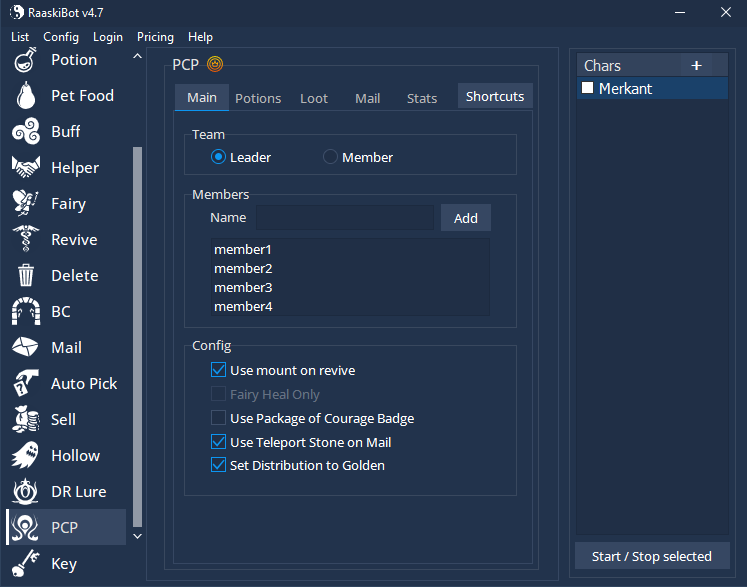
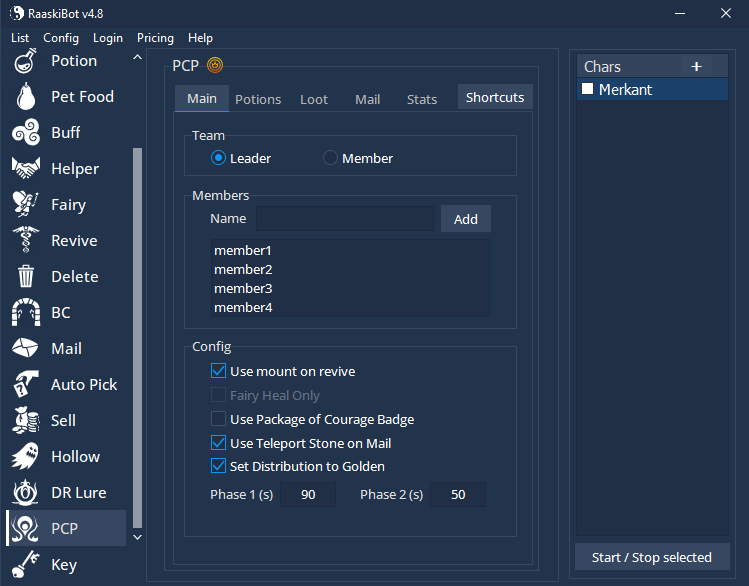
Add 4.8 patch notes and a Troubleshooting page
From 4.8 the changelog entries read "TYPE Feature" (FIX PCP, MELHORIA
Geral) instead of a bare feature name, so the label is now split into a
type chip and a feature chip. The feature half keeps linking to its
tutorial, which a combined "FIX PCP" key would have broken. Older
single-word labels are unaffected.

New Troubleshooting page (Ajuda in Portuguese) covering the two Windows
text settings that fix failed logins and image recognition: smooth
screen fonts and ClearType. Its steps are numbered, which is honest
here - unlike the bot's tabs, this really is an ordered procedure. The
captures are from Windows in Portuguese, so each step also names the
English label to look for.

PCP gains the Phase 1 (s) and Phase 2 (s) fields added in 4.8.

diff --git a/index.html b/index.html
@@ -20,6 +20,7 @@
 		<button type="button" class="tab" data-view="home" aria-selected="true" data-en="Home" data-pt="Início"></button>
 		<button type="button" class="tab" data-view="tutoriais" aria-selected="false" data-en="Tutorials" data-pt="Tutoriais"></button>
 		<button type="button" class="tab" data-view="patch-notes" aria-selected="false" data-en="Patch Notes" data-pt="Patch Notes"></button>
+		<button type="button" class="tab" data-view="ajuda" aria-selected="false" data-en="Troubleshooting" data-pt="Ajuda"></button>
 		<a class="tab tab--out" href="https://www.youtube.com/playlist?list=PLMZOKo_yDo0-GMv4DyENpjaANbiu9YAzU" target="_blank" rel="noopener"
 		   data-en="YouTube" data-pt="YouTube"></a>
 		<button type="button" class="tab" data-view="contato" aria-selected="false" data-en="Contact" data-pt="Contato"></button>
@@ -657,7 +658,7 @@
 				<section class="section" id="pcp">
 					<h2><span data-en="PCP" data-pt="PCP"></span><a class="anchor" href="#pcp" aria-label="Link">#</a></h2>
 					<button type="button" class="shot" data-zoom="zoom" data-en-zoom="Click to zoom" data-pt-zoom="Clique para ampliar">
-						<img src="images/pcp_main.png" width="747" height="587" loading="lazy" decoding="async" alt="PCP">
+						<img src="images/pcp_main.png" width="749" height="586" loading="lazy" decoding="async" alt="PCP">
 					</button>
 					<ul class="steps">
 						<li class="step step--named">
@@ -676,6 +677,8 @@
 								<li><dfn data-en="Use Package of Courage Badge" data-pt="Use Package of Courage Badge"></dfn><span data-en="Opens the badge packages picked up in the run." data-pt="Abre os pacotes de badge que pegar na run."></span></li>
 								<li><dfn data-en="Use Teleport Stone on Mail" data-pt="Use Teleport Stone on Mail"></dfn><span data-en="Uses the teleport stone when going to mail items." data-pt="Usa a teleport stone na hora de ir mandar os itens."></span></li>
 								<li><dfn data-en="Set Distribution to Golden" data-pt="Set Distribution to Golden"></dfn><span data-en="Sets the team's loot distribution to golden." data-pt="Configura a distribuição de loot do time para golden."></span></li>
+								<li><dfn data-en="Phase 1 (s)" data-pt="Phase 1 (s)"></dfn><span data-en="How long the team stays on the first phase, in seconds." data-pt="Quanto tempo o team fica na primeira fase, em segundos."></span></li>
+								<li><dfn data-en="Phase 2 (s)" data-pt="Phase 2 (s)"></dfn><span data-en="The same for the second phase." data-pt="O mesmo para a segunda fase."></span></li>
 							</ul>
 						</li>
 					</ul>
@@ -865,10 +868,28 @@
 					<li>
 					<details class="release is-latest" open>
 						<summary>
+							<span class="v-num">4.8</span>
+							<span class="v-date" data-en="August 26, 2026" data-pt="26/08/2026"></span>
+							<span class="v-meta">
+								<span class="v-latest" data-en="Latest" data-pt="Atual"></span>
+								<span class="v-count" data-en="4 changes" data-pt="4 mudanças"></span>
+								<svg class="chev" viewBox="0 0 24 24" fill="none" stroke="currentColor" stroke-width="2" stroke-linecap="round" aria-hidden="true"><path d="m6 9 6 6 6-6"/></svg>
+							</span>
+						</summary>
+						<ul class="changes">
+							<li class="change"><span class="chip" data-en="FIX" data-pt="FIX"></span><a class="chip" href="#pcp" data-en="PCP" data-pt="PCP"></a><span data-en="Several bugs fixed." data-pt="Alguns bugs corrigidos."></span></li>
+							<li class="change"><span class="chip" data-en="IMPROVEMENT" data-pt="MELHORIA"></span><a class="chip" href="#pcp" data-en="PCP" data-pt="PCP"></a><span data-en="Lower CPU usage." data-pt="Uso de CPU melhorado."></span></li>
+							<li class="change"><span class="chip" data-en="IMPROVEMENT" data-pt="MELHORIA"></span><span class="chip" data-en="General" data-pt="Geral"></span><span data-en="Better interface performance when running many apps with a very large Delete list." data-pt="Melhorada a performance da interface do bot com muitos apps com lista de Delete gigante."></span></li>
+							<li class="change"><span class="chip" data-en="TIP" data-pt="DICA"></span><span data-en="Having trouble with login or with image recognition? Two Windows text settings usually fix it - see <a href='#ajuda'>Troubleshooting</a>." data-pt="Com problemas de login ou de reconhecimento de imagens? Dois ajustes de texto do Windows costumam resolver - veja <a href='#ajuda'>Ajuda</a>."></span></li>
+						</ul>
+					</details>
+					</li>
+					<li>
+					<details class="release">
+						<summary>
 							<span class="v-num">4.7</span>
 							<span class="v-date" data-en="August 24, 2026" data-pt="24/08/2026"></span>
 							<span class="v-meta">
-								<span class="v-latest" data-en="Latest" data-pt="Atual"></span>
 								<span class="v-count" data-en="22 changes" data-pt="22 mudanças"></span>
 								<svg class="chev" viewBox="0 0 24 24" fill="none" stroke="currentColor" stroke-width="2" stroke-linecap="round" aria-hidden="true"><path d="m6 9 6 6 6-6"/></svg>
 							</span>
@@ -1053,6 +1074,61 @@
 					</li>
 			</ul>
 			<p class="wip" data-en="Work in progress..." data-pt="Em construção..."></p>
+		</div>
+	</main>
+
+	<!-- =============================================================== AJUDA -->
+	<main class="view" data-view="ajuda">
+		<div class="plain">
+			<div class="page-head">
+				<p class="eyebrow" data-en="Troubleshooting" data-pt="Ajuda"></p>
+				<h1 data-en="Login and image recognition" data-pt="Login e reconhecimento de imagens"></h1>
+				<p data-en="The bot reads the game by looking at what is drawn on screen. When Windows renders text without smoothing, that reading fails - the symptom is a login that never completes, or items and NPCs the bot cannot find. Two settings fix it."
+				   data-pt="O bot lê o jogo olhando o que está desenhado na tela. Quando o Windows desenha o texto sem suavização, essa leitura falha - o sintoma é um login que não completa, ou itens e NPCs que o bot não acha. Dois ajustes resolvem."></p>
+			</div>
+			<p class="note"><svg viewBox="0 0 24 24" fill="none" stroke="currentColor" stroke-width="2" stroke-linecap="round" aria-hidden="true"><path d="M12 9v4M12 17h.01"/><path d="M10.3 3.9 1.8 18a2 2 0 0 0 1.7 3h17a2 2 0 0 0 1.7-3L13.7 3.9a2 2 0 0 0-3.4 0z"/></svg><span data-en="The screenshots are from Windows in Portuguese. Each step gives the English label to look for." data-pt="As telas são de um Windows em português."></span></p>
+			<ol class="steps">
+				<li class="step">
+					<span class="step-n" aria-hidden="true">1</span>
+					<h3><span data-en="Open System Properties" data-pt="Abra as Propriedades do Sistema"></span></h3>
+					<p><span data-en="Press <b>Windows + R</b>, type <b>sysdm.cpl</b> and confirm." data-pt="Pressione <b>Windows + R</b>, digite <b>sysdm.cpl</b> e confirme."></span></p>
+					<button type="button" class="shot" data-zoom="zoom" data-en-zoom="Click to zoom" data-pt-zoom="Clique para ampliar">
+						<img src="images/troubleshooting_1.png" width="406" height="223" loading="lazy" decoding="async" alt="Open System Properties">
+					</button>
+				</li>
+				<li class="step">
+					<span class="step-n" aria-hidden="true">2</span>
+					<h3><span data-en="Go to the Performance settings" data-pt="Vá para as opções de Desempenho"></span></h3>
+					<p><span data-en="On the <b>Advanced</b> tab, click <b>Settings</b> inside the Performance box." data-pt="Na aba <b>Avançado</b>, clique em <b>Configurações</b> dentro de Desempenho."></span></p>
+					<button type="button" class="shot" data-zoom="zoom" data-en-zoom="Click to zoom" data-pt-zoom="Clique para ampliar">
+						<img src="images/troubleshooting_2.png" width="410" height="464" loading="lazy" decoding="async" alt="Go to the Performance settings">
+					</button>
+				</li>
+				<li class="step">
+					<span class="step-n" aria-hidden="true">3</span>
+					<h3><span data-en="Turn on smooth screen fonts" data-pt="Ative as fontes com cantos arredondados"></span></h3>
+					<p><span data-en="Under <b>Visual Effects</b>, tick <b>Smooth edges of screen fonts</b> and confirm with OK." data-pt="Em <b>Efeitos Visuais</b>, marque <b>Usar fontes de tela com cantos arredondados</b> e confirme com OK."></span></p>
+					<button type="button" class="shot" data-zoom="zoom" data-en-zoom="Click to zoom" data-pt-zoom="Clique para ampliar">
+						<img src="images/troubleshooting_3.png" width="425" height="600" loading="lazy" decoding="async" alt="Turn on smooth screen fonts">
+					</button>
+				</li>
+				<li class="step">
+					<span class="step-n" aria-hidden="true">4</span>
+					<h3><span data-en="Open the ClearType tuner" data-pt="Abra o ajuste do ClearType"></span></h3>
+					<p><span data-en="In the Start menu, type <b>cleartype</b> and open <b>Adjust ClearType text</b>." data-pt="No Menu Iniciar, digite <b>cleartype</b> e abra <b>Ajustar texto ClearType</b>."></span></p>
+					<button type="button" class="shot" data-zoom="zoom" data-en-zoom="Click to zoom" data-pt-zoom="Clique para ampliar">
+						<img src="images/troubleshooting_4.png" width="237" height="64" loading="lazy" decoding="async" alt="Open the ClearType tuner">
+					</button>
+				</li>
+				<li class="step">
+					<span class="step-n" aria-hidden="true">5</span>
+					<h3><span data-en="Turn ClearType on" data-pt="Ative o ClearType"></span></h3>
+					<p><span data-en="Tick <b>Turn on ClearType</b> and click Next through to the end of the wizard." data-pt="Marque <b>Ativar ClearType</b> e clique em Avançar até terminar a configuração."></span></p>
+					<button type="button" class="shot" data-zoom="zoom" data-en-zoom="Click to zoom" data-pt-zoom="Clique para ampliar">
+						<img src="images/troubleshooting_5.png" width="685" height="556" loading="lazy" decoding="async" alt="Turn ClearType on">
+					</button>
+				</li>
+			</ol>
 		</div>
 	</main>
 
